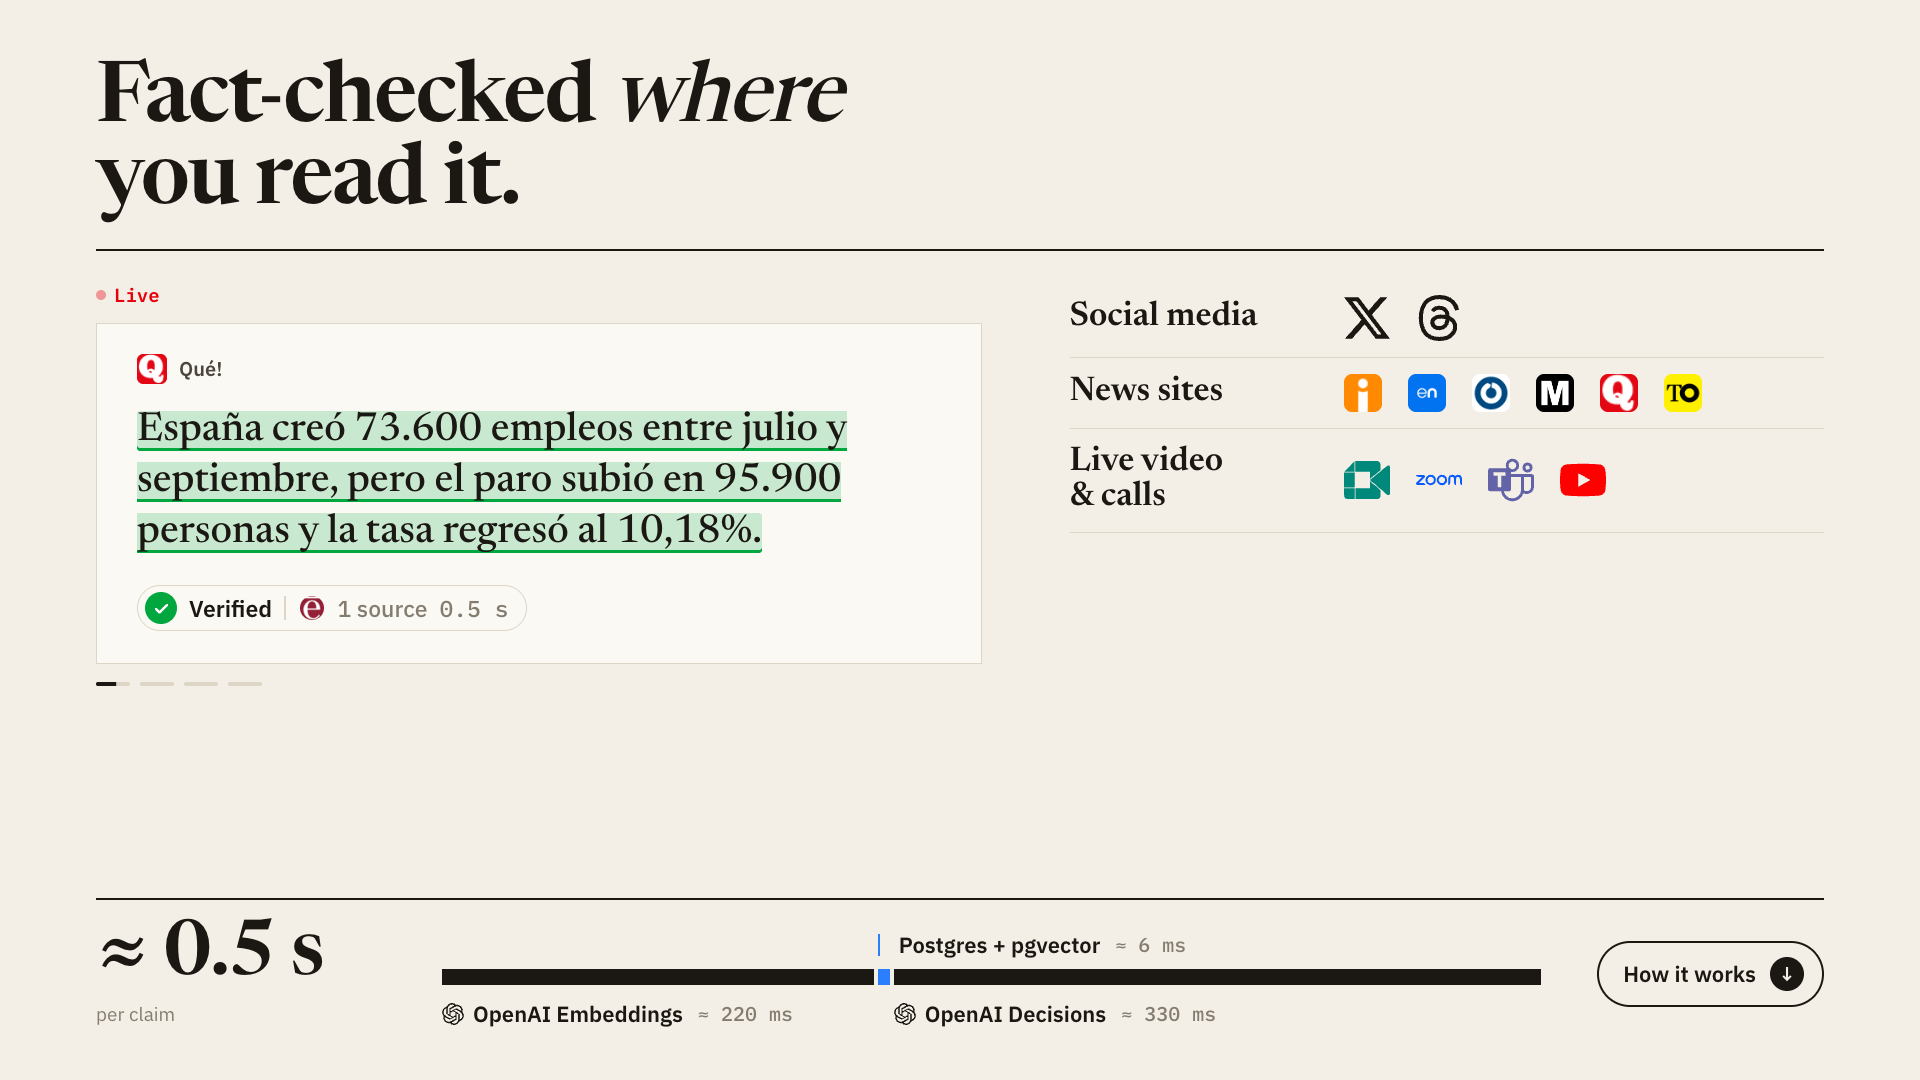
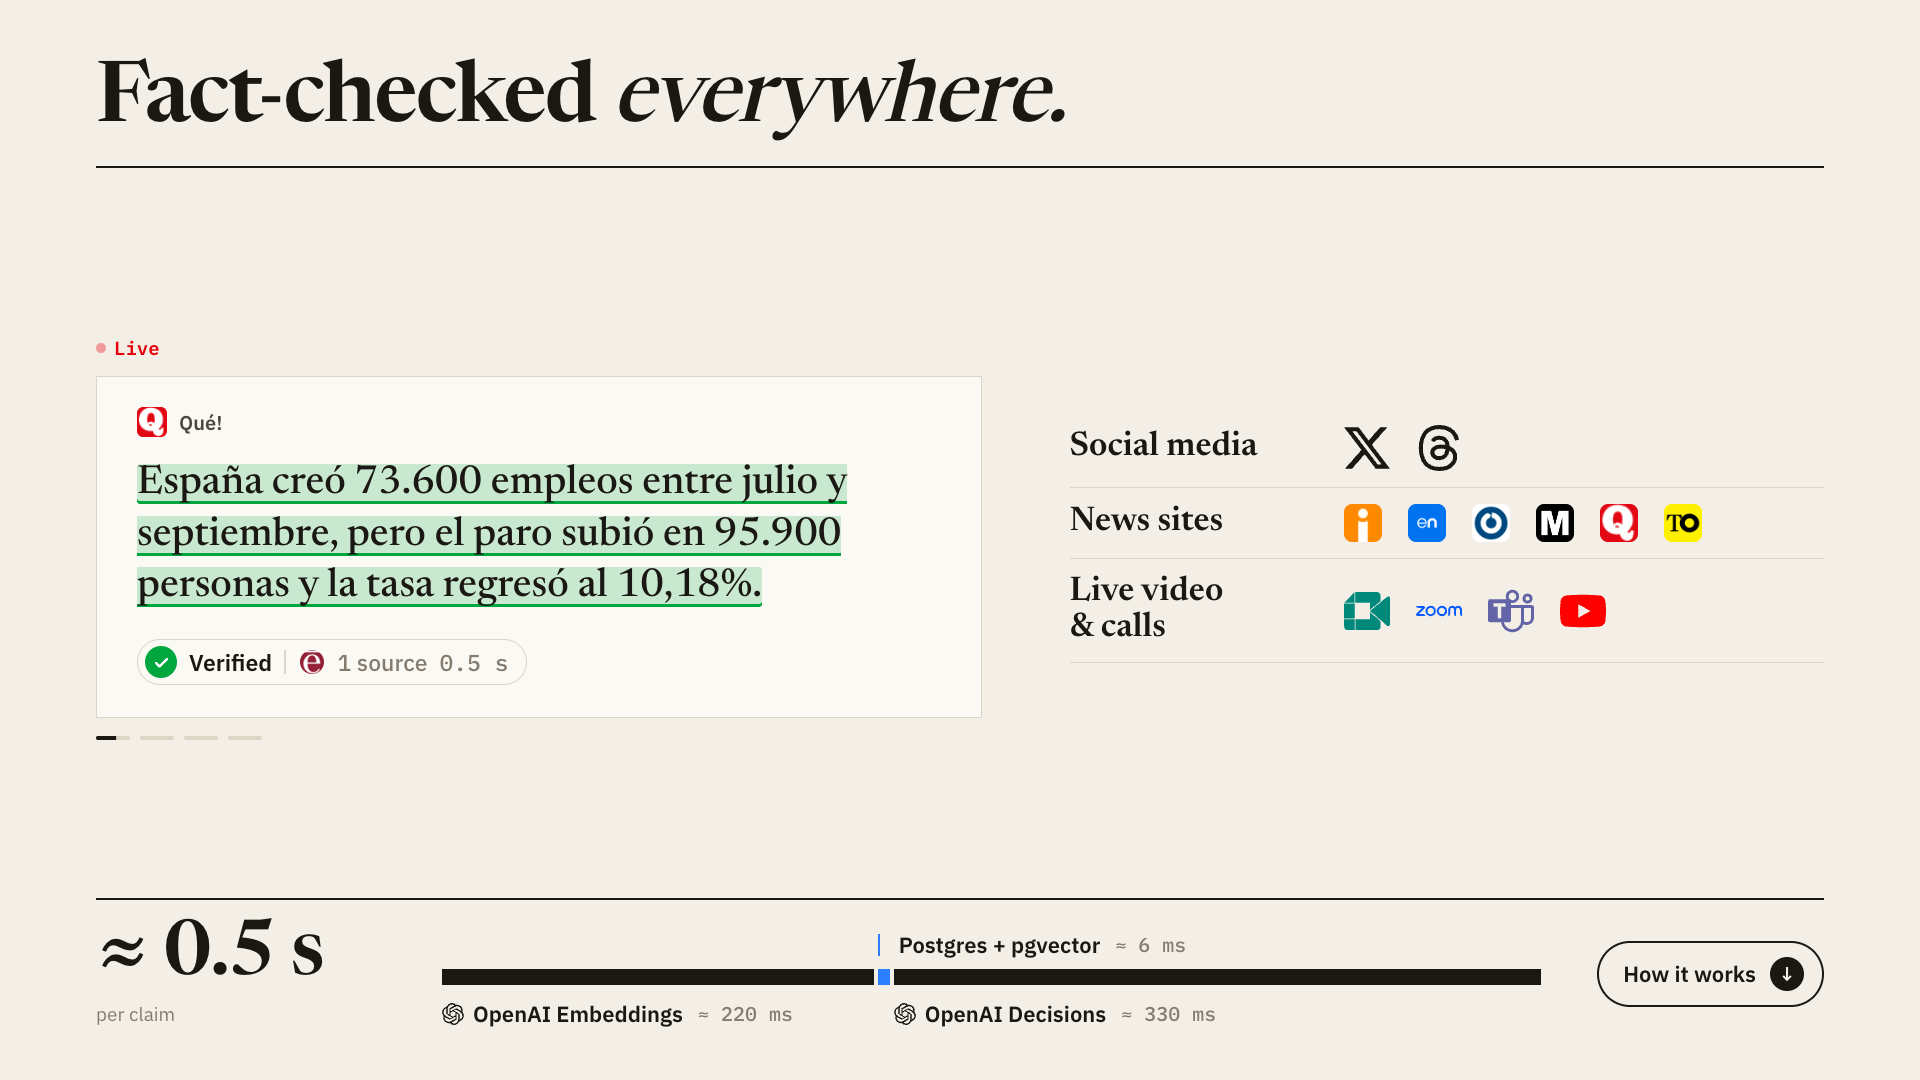
Slides: 'Fact-checked everywhere.' and centre the demo and platform columns

diff --git a/docs/slides/demo.html b/docs/slides/demo.html
@@ -61,7 +61,7 @@
   .dek { max-width: 600px; font-size: 26px; line-height: 1.35; color: var(--ink-2); }
 
   /* ---------- Left: the live demo ---------- */
-  .demo { margin-top: 32px; display: flex; flex-direction: column; }
+  .demo { margin-top: 32px; display: flex; flex-direction: column; justify-content: center; align-self: center; }
   .kicker { font-family: var(--mono); font-size: 19px; font-weight: 600; color: var(--ink-3); display: flex; align-items: center; gap: 12px; }
   .kicker .live { display: inline-flex; align-items: center; gap: 8px; color: var(--bad); }
   .kicker .live i { width: 10px; height: 10px; border-radius: 50%; background: var(--bad); animation: blink 1.4s ease-in-out infinite; }
@@ -119,7 +119,7 @@
   .fade.out { opacity: 0; }
 
   /* ---------- Right: where it works ---------- */
-  .where { margin-top: 32px; display: flex; flex-direction: column; }
+  .where { margin-top: 32px; display: flex; flex-direction: column; justify-content: center; align-self: center; }
   .row { padding: 16px 0; border-bottom: 1px solid var(--rule); display: grid; grid-template-columns: 250px 1fr; gap: 24px; align-items: center; }
   .row:first-of-type { padding-top: 12px; }
   .row h3 { font-family: var(--serif); font-size: 34px; font-weight: 600; line-height: 1.05; }
@@ -224,7 +224,7 @@
 <body>
 <main id="stage" class="stage">
   <header>
-    <h1 class="in d1">Fact-checked <em>where</em><br>you read it.</h1>
+    <h1 class="in d1">Fact-checked <em>everywhere.</em></h1>
   </header>
 
   <section class="demo in d3" aria-label="Live example">

diff --git a/docs/slides/src/demo.template.html b/docs/slides/src/demo.template.html
@@ -61,7 +61,7 @@
   .dek { max-width: 600px; font-size: 26px; line-height: 1.35; color: var(--ink-2); }
 
   /* ---------- Left: the live demo ---------- */
-  .demo { margin-top: 32px; display: flex; flex-direction: column; }
+  .demo { margin-top: 32px; display: flex; flex-direction: column; justify-content: center; align-self: center; }
   .kicker { font-family: var(--mono); font-size: 19px; font-weight: 600; color: var(--ink-3); display: flex; align-items: center; gap: 12px; }
   .kicker .live { display: inline-flex; align-items: center; gap: 8px; color: var(--bad); }
   .kicker .live i { width: 10px; height: 10px; border-radius: 50%; background: var(--bad); animation: blink 1.4s ease-in-out infinite; }
@@ -119,7 +119,7 @@
   .fade.out { opacity: 0; }
 
   /* ---------- Right: where it works ---------- */
-  .where { margin-top: 32px; display: flex; flex-direction: column; }
+  .where { margin-top: 32px; display: flex; flex-direction: column; justify-content: center; align-self: center; }
   .row { padding: 16px 0; border-bottom: 1px solid var(--rule); display: grid; grid-template-columns: 250px 1fr; gap: 24px; align-items: center; }
   .row:first-of-type { padding-top: 12px; }
   .row h3 { font-family: var(--serif); font-size: 34px; font-weight: 600; line-height: 1.05; }
@@ -224,7 +224,7 @@
 <body>
 <main id="stage" class="stage">
   <header>
-    <h1 class="in d1">Fact-checked <em>where</em><br>you read it.</h1>
+    <h1 class="in d1">Fact-checked <em>everywhere.</em></h1>
   </header>
 
   <section class="demo in d3" aria-label="Live example">
